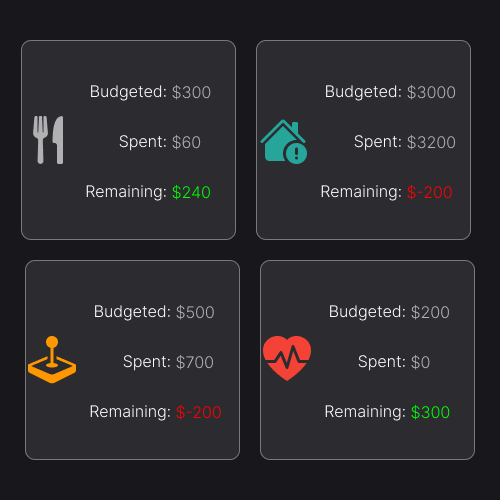
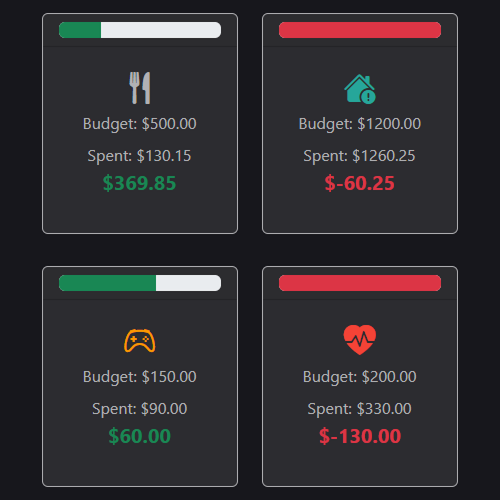
updated feature images

diff --git a/project/static/js/radar.js b/project/static/js/radar.js
@@ -35,9 +35,10 @@ document.addEventListener("DOMContentLoaded", function () {
             responsive: true,
             scales: {
                 r: {
-                    angleLines: { color: '#ccc' },
-                    grid: { color: '#ccc' },
+                    angleLines: { color: '#fff' },
+                    grid: { color: '#fff' },
                     ticks: { display: false },
+                    pointLabels: { color: '#fff' },
                     suggestedMin: 0,
                     suggestedMax: 100
                 }

diff --git a/project/users/views.py b/project/users/views.py
@@ -68,12 +68,15 @@ def logout_view(request):
 @never_cache
 @login_required
 def dashboard_view(request):
+    today = date.today()
+    last_month_date = (today.replace(day=1) - timedelta(days=30)).replace(day=1)
+
     recent = Transaction.objects.filter(user=request.user).order_by('-created_at')[:10]
     form = TransactionForm()
     budgets = get_monthly_budget_summary(request.user)
+    budgets_last_month = get_monthly_budget_summary(request.user, last_month_date)
     formset = BudgetFormSet(queryset=Budget.objects.filter(user=request.user))
 
-    today = date.today()
     total = get_total_summary(request.user)
     past = []
     for i in range(5):
@@ -84,9 +87,11 @@ def dashboard_view(request):
 
     budget_labels = ["Food", "Bills", "Transportation", "Shopping", "Entertainment", "Healthcare", "Savings", "Other"]
     this_month = []
-    last_month = [10, 100, 90, 80, 100, 50, 20, 30]
+    last_month = []
     for budget in budgets:
         this_month.append(float(budget['progress']))
+    for budget in budgets_last_month:
+        last_month.append(float(budget['progress']))
 
     context = {
         'recent': recent,

diff --git a/CHANGELOG.md b/CHANGELOG.md
@@ -70,3 +70,17 @@ All notable changes to this project will be documented in this file.
 
 - login/register display
 - progress bar division by zero
+
+## 2025-08-11
+
+### Added
+
+- 
+
+### Changed
+
+- updated feature images
+
+### Fixed
+
+- 
